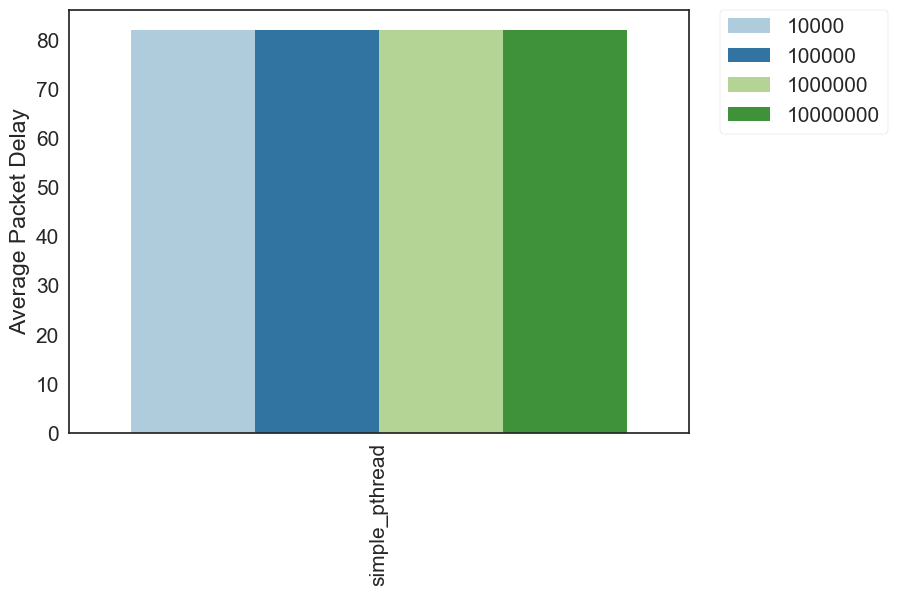
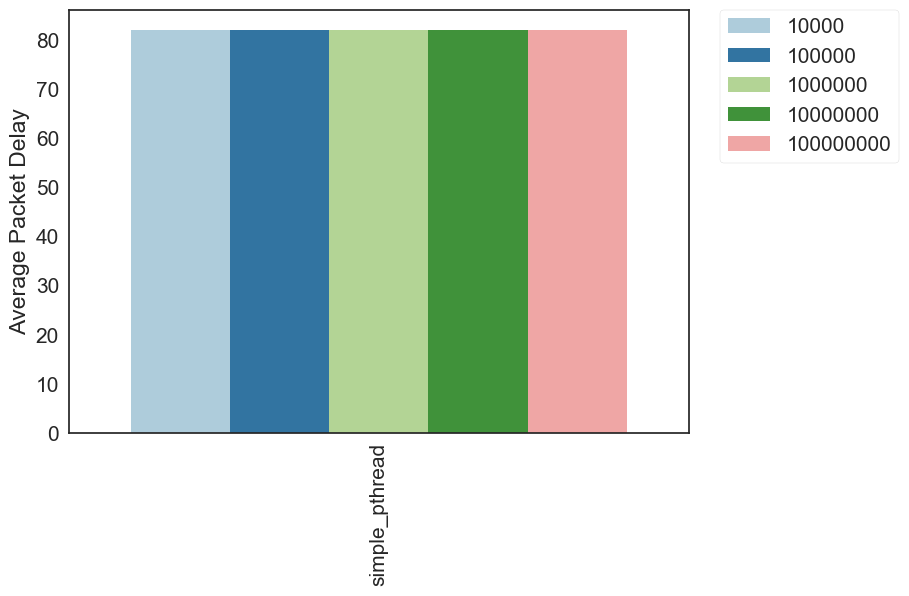
Update scripts and results.

diff --git a/analyze.py b/analyze.py
@@ -4,7 +4,7 @@ from utils import parse_result, to_csv, generate_plot
 results = []
 
 for bench, trace_file_name in bench_and_trace_file_names:
-    for max_cycles in [10000, 100000, 1000000, 10000000]:
+    for max_cycles in [10000, 100000, 1000000, 10000000, 100000000]:
         results.append(
             parse_result(working_directory(bench, 64, 'OddEven', 'BufferLevel', max_cycles), bench=bench)
         )

diff --git a/run.py b/run.py
@@ -27,7 +27,7 @@ experiments = []
 
 
 for (bench, trace_file_name) in bench_and_trace_file_names:
-    for max_cycles in [10000, 100000, 1000000, 10000000]:
+    for max_cycles in [10000, 100000, 1000000, 10000000, 100000000]:
         add_experiment(experiments, bench, trace_file_name, 64, 'OddEven', 'BufferLevel', max_cycles)
 
 run_experiments(experiments, run_experiment)
